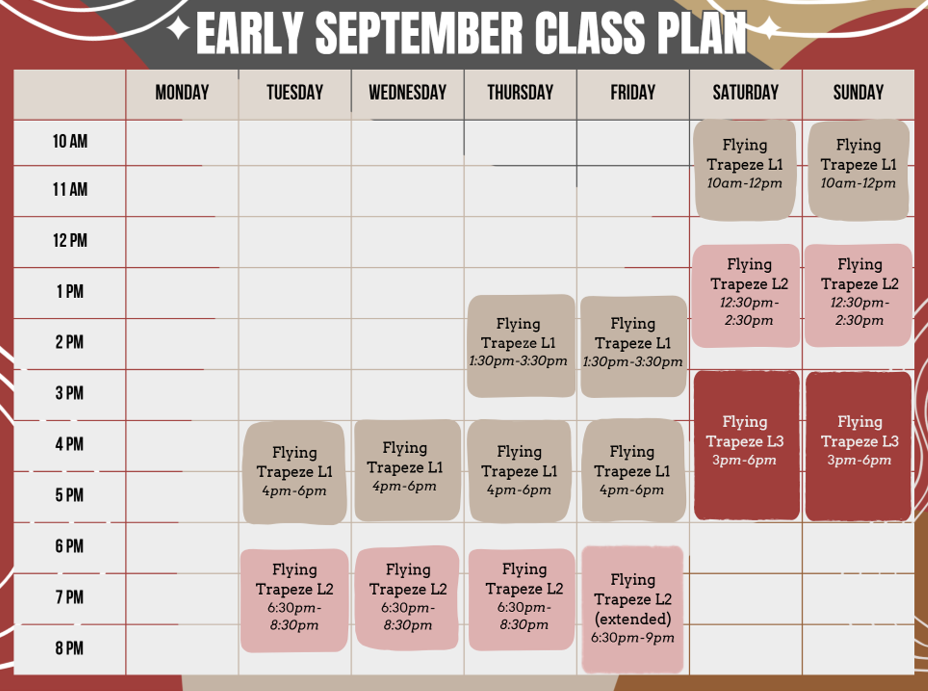
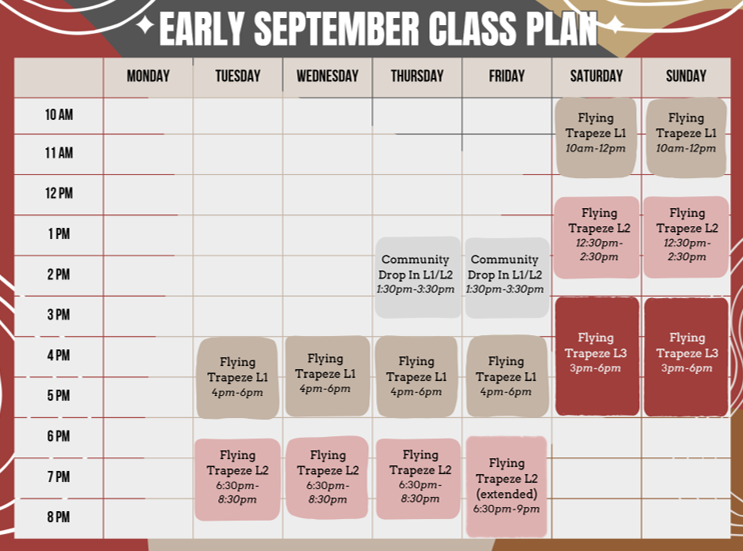
Update class descriptions and sept timetable

diff --git a/faqs.html b/faqs.html
@@ -99,20 +99,17 @@
 
                                     <p>
                                         A level 1 class is a class for complete beginners, or those who are just getting
-                                        started.
+                                        started, and is suitable for all ages 8+.
                                     </p>
 
                                     <p>
                                         During your first class, there will be a safety briefing, and a group warm up.
                                         You will then learn your trick on the ‘low bar’, followed by the take off and
-                                        landing.
-                                    </p>
-
-                                    <p>
-                                        You will then go up the ladder, and practise the trick on the flying trapeze. At
+                                        landing. Next you will climb the ladder to practise the trick on the flying
+                                        trapeze. At
                                         the end of the class, for those whose tricks are ready, there will be a catch
-                                        round, where a catcher will swing from the catch bar, and try to catch you from
-                                        your trick.
+                                        round, where a catcher will swing from the catch bar, and try to catch your
+                                        trick.
                                     </p>
 
                                     <p>
@@ -134,13 +131,14 @@
                                         Congratulations on making it to level 2 class!
                                     </p>
                                     <p>
-                                        In this class, you are working on your one handed take off, and started on your
-                                        swing. In this class, you will start working on better form, technique and
-                                        drills. You will continue to learn tricks, but each time they will be a little
-                                        harder. You will learn ‘back end tricks’, and start working on more advanced
-                                        tricks. You will start to learn a turnaround swing, and returning to board. You
-                                        will also start ‘working in hands’ with a catcher. You may even start to look at
-                                        taking your swing, and a trick out of lines.
+                                        In this class you will continue to work on your one handed take off and swing.
+                                        You will also start working on better form, technique and drills. You will
+                                        continue to learn tricks, but each time they will be a little harder, including
+                                        ‘back end tricks’ and other more advanced skills. You will start to learn a
+                                        turnaround swing and how to return to platform. You will also start ‘working in
+                                        hands’ with a catcher. You may even start to look at taking your swing and a
+                                        trick out of lines. You must be signed off by one of our instructors to join
+                                        this class.
                                     </p>
                                 </article>
 
@@ -150,15 +148,14 @@
 
                                     <h3>Level 3 Description</h3>
                                     <p>
-                                        This class is for regular and advanced students.
+                                        This class is for regular and advanced students. There are no platform
+                                        assistants in this class so you must be comfortable working the platform for
+                                        yourself and others.
                                     </p>
                                     <p>
                                         In a level 3 class, you already have your swing, turnaround swing, and remounts
                                         to board out of lines. You may have or are working towards getting tricks out of
-                                        lines and throwing them to catch out of lines.
-                                    </p>
-                                    <p>
-                                        In this class, you will be working on more advanced tricks. You will also be
+                                        lines and throwing them to catch out of lines. In this class, you will be working on more advanced tricks. You will also be
                                         working on strength and conditioning outside of trapeze classes.
                                     </p>
                                 </article>
